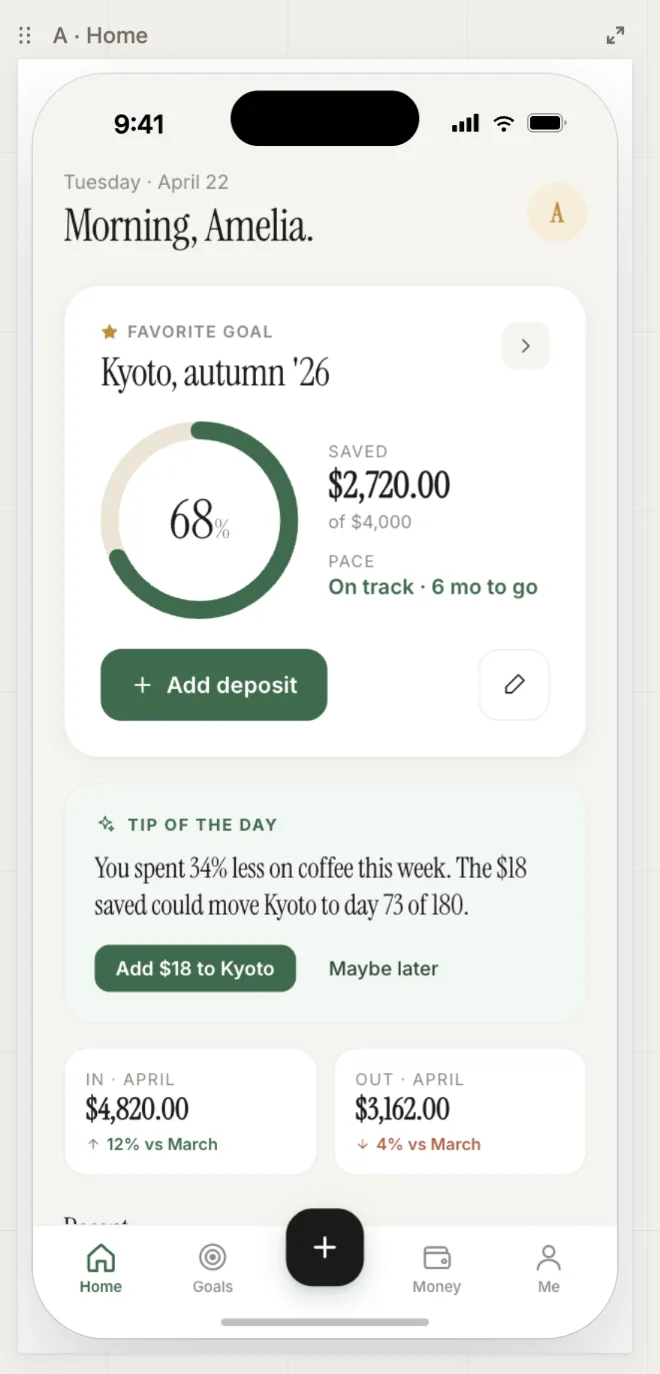
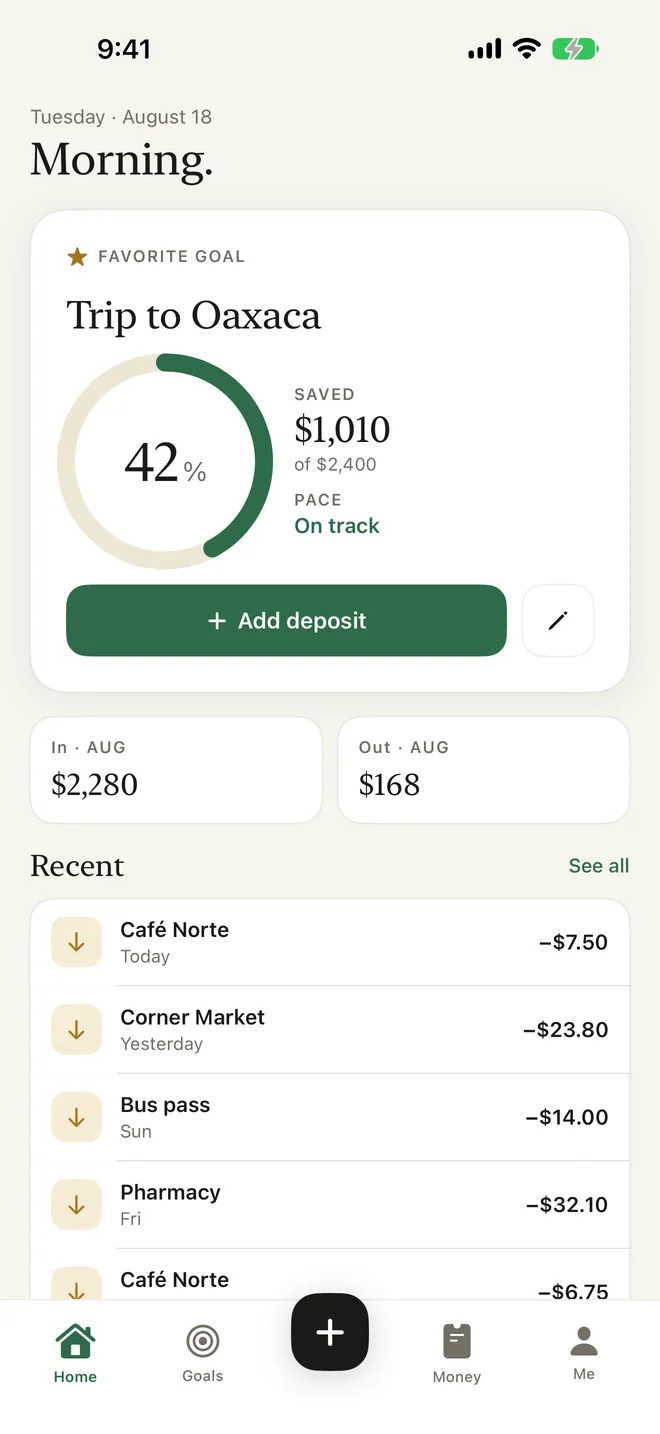
feat: move Savely to case 02 and replace its mockup with real captures
Savely was submitted to App Store review, so it moves from 09 to 02 — directly
after Alisio, ahead of Fave. Every num below shifts by one; CASE_KEYS is the
single source of order and the deep-link test is untouched because Alisio
stays first.

The bigger change is that the case was describing a different product. Its
copy said "Bank-grade security · Banking APIs" and its meta said iOS 16+. The
app is the opposite of that on purpose: PRODUCT.md calls it local-first — "no
accounts, no cloud, no bank connections" — and lists bank fintech as an
explicit anti-reference. There is not a single banking SDK or SPM dependency
in the tree; the frameworks it actually leans on are SwiftData, Vision and
VisionKit. Deployment target is 26.0. Both dictionaries are rewritten from
PRODUCT.md, and the meta now reads iOS 26 / SwiftUI · SwiftData · Vision.

The hero was a design-tool mockup with the tool's own chrome baked in — a
"⠿ A · Home" title bar, a canvas grid, an expand glyph — and the CSS on
.ab-phone-img.savely img existed only to crop that chrome off with negative
margins. It also showed a screen the shipped app does not have (Amelia,
Kyoto, a tip-of-the-day card). Replaced with a raw simulator capture of the
real Home (1320×2868 → 660×1434), the crop margins removed, and the declared
height corrected to the device aspect.

Adds a three-frame gallery, one per claim in the copy: a goal with its pace,
a receipt read on-device, and payday's one-tap auto-move — all seeded through
[…]

diff --git a/app/[locale]/page.tsx b/app/[locale]/page.tsx
@@ -30,6 +30,7 @@ type CaseKey =
 // the single source of order — CASES render maps over it and `num` follows it.
 const CASE_KEYS: readonly CaseKey[] = [
   "alisio",
+  "savely",
   "fave",
   "pass",
   "fingo",
@@ -37,7 +38,6 @@ const CASE_KEYS: readonly CaseKey[] = [
   "arrhythmia",
   "mezcal",
   "briefmark",
-  "savely",
   "blip",
 ]
 
@@ -262,7 +262,7 @@ export default function PortfolioPage() {
       ],
     },
     fave: {
-      num: "02",
+      num: "03",
       kicker: "iOS · SwiftData · 2026",
       title: {
         pre: "Fave — ",
@@ -286,7 +286,7 @@ export default function PortfolioPage() {
       preview: "fave",
     },
     pass: {
-      num: "03",
+      num: "04",
       kicker: "Backend · Serverless · 2026",
       title: {
         pre: "Pass — ",
@@ -312,7 +312,7 @@ export default function PortfolioPage() {
       highlights: t.raw("cases.pass.highlights") as string[],
     },
     fingo: {
-      num: "04",
+      num: "05",
       kicker: "iOS · 2025",
       title: {
         pre: "Fingo — ",
@@ -343,7 +343,7 @@ export default function PortfolioPage() {
       preview: "fingo",
     },
     vitapath: {
-      num: "05",
+      num: "06",
       kicker: t("cases.vitapath.kicker"),
       title: {
         pre: "Vitapath — ",
@@ -388,7 +388,7 @@ export default function PortfolioPage() {
       ],
     },
     arrhythmia: {
-      num: "06",
+      num: "07",
       kicker: "Web · ML · 2026",
       title: {
         pre: "Arrhythmia Detector — ",
@@ -436,7 +436,7 @@ export default function PortfolioPage() {
       ],
     },
     mezcal: {
-      num: "07",
+      num: "08",
       kicker: "Web · E-commerce · 2025",
       title: {
         pre: "Mi Mezcal — ",
@@ -461,7 +461,7 @@ export default function PortfolioPage() {
       preview: "mezcal",
     },
     briefmark: {
-      num: "08",
+      num: "09",
       kicker: "iOS · AI · 2026",
       title: {
         pre: "Briefmark — ",
@@ -485,7 +485,7 @@ export default function PortfolioPage() {
       preview: "briefmark",
     },
     savely: {
-      num: "09",
+      num: "02",
       kicker: "iOS · Fintech · 2026",
       title: {
         pre: "Savely — ",
@@ -493,8 +493,8 @@ export default function PortfolioPage() {
       },
       desc: t.rich("cases.savely.descRich", { it: (chunks) => <em>{chunks}</em> }),
       meta: [
-        [t("cases.meta.platform"), "iOS 16+"],
-        [t("cases.meta.stack"), "SwiftUI · Swift · Banking APIs"],
+        [t("cases.meta.platform"), "iOS 26"],
+        [t("cases.meta.stack"), "SwiftUI · SwiftData · Vision"],
         [t("cases.meta.status"), t("cases.savely.metaStatus")],
         [t("cases.meta.year"), "2026"],
       ],
@@ -513,6 +513,17 @@ export default function PortfolioPage() {
         },
       ],
       preview: "savely",
+      media: [
+        {
+          kind: "gallery",
+          items: [
+            { src: "/cases/gallery/savely-p1.webp", w: 420, h: 913 },
+            { src: "/cases/gallery/savely-p2.webp", w: 420, h: 913 },
+            { src: "/cases/gallery/savely-p3.webp", w: 420, h: 913 },
+          ],
+          caption: t("cases.savely.galleryCaption"),
+        },
+      ],
     },
     blip: {
       num: "10",
@@ -897,7 +908,7 @@ export default function PortfolioPage() {
                   savely: {
                     name: { pre: "Savely", it: ` — ${t("cases.savely.titleIt")}` },
                     tag: t("cases.savely.tag"),
-                    stack: ["iOS", "Fintech", "Banking APIs"],
+                    stack: ["iOS", "SwiftData", "On-device OCR"],
                     mshow: `iOS · Fintech · ${t("cases.savely.mshowStatus")} →`,
                   },
                   mezcal: {
@@ -1443,7 +1454,7 @@ function CasePreview({ which }: { which: CaseKey }) {
       <div className="ab-phone-img savely" aria-hidden="true" style={{ ["--w" as any]: "280px" }}>
         <div className="crop">
           {/* eslint-disable-next-line @next/next/no-img-element */}
-          <img src="/savely-hero.webp" alt="" width={660} height={1374} />
+          <img src="/savely-hero.webp" alt="" width={660} height={1434} />
         </div>
       </div>
     )

diff --git a/app/globals.css b/app/globals.css
@@ -671,11 +671,13 @@
   box-shadow: 0 36px 60px -24px #00000028, 0 20px 40px -20px #00000020,
     0 0 0 1px #00000010;
 }
+/* The old asset was a design-tool mockup with tool chrome baked in, and these
+   negative margins existed to crop that chrome off. The hero is now a raw
+   simulator capture (1320×2868 → 660×1434), so it fills the crop as-is. */
 .ab-phone-img.savely img {
-  margin-top: -6%;
-  margin-bottom: -3%;
-  width: 102%;
-  margin-left: -1%;
+  display: block;
+  width: 100%;
+  height: auto;
 }
 
 .ab-phone-img.tilt-l {
